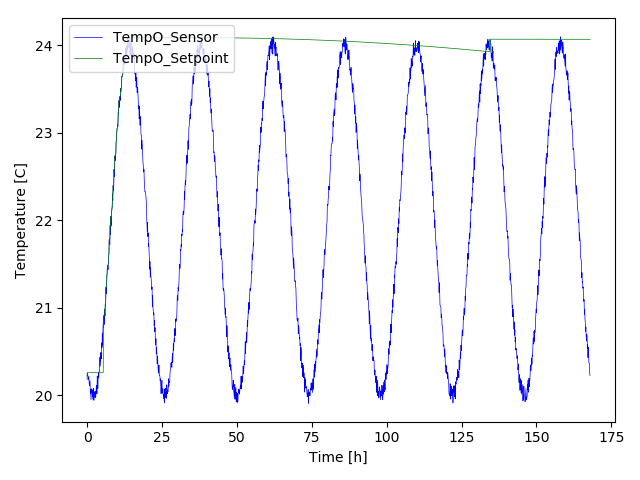
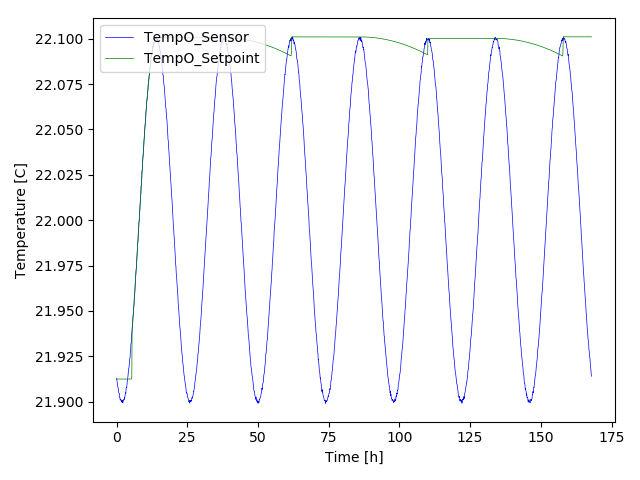
Temporary

diff --git a/software/node/program/portable_daymaxestimator.py b/software/node/program/portable_daymaxestimator.py
@@ -1,6 +1,7 @@
 # -*- coding: utf-8 -*-
 import math
 
+import config_app
 import portable_ticks
 import portable_constants
 
@@ -64,27 +65,39 @@ class TempO_SetpointWhenSet:
     self.fTempO_C = fTempO_C
     self.iTicks_ms = iTicks_ms
 
+  def adjust(self, iTicks_ms, fTempIncrease_C):
+    self.fTempO_C += fTempIncrease_C
+    # Subtrakt PeakDelay to avoid that a peak increases the setpoint again
+    self.iTicks_ms = portable_ticks.objTicks.ticks_add(iTicks_ms, -iTimePeakDelay_ms)
+
 TEMP_LOW_C = -100.00
+HEAT_HIGH_W = 47.11
 
 class TemperatureList:
   def __init__(self):
     self.iDatapoints = int(TIME_INTERVAL_FTEMPO_SETPOINT_MS/TIME_CALC_FTEMPO_SETPOINT_MS)
     self.iLastDatapoint = 0
     self.listTemp_C = [TEMP_LOW_C,]*self.iDatapoints
+    self.listHeat_W = [HEAT_HIGH_W,]*self.iDatapoints
     self.iIndexMiddle = int(self.iDatapoints/2)
 
-  def appendLastDatapoint(self, iTemp_C=TEMP_LOW_C):
+  def appendLastDatapoint(self, fHeat_W, fTemp_C=TEMP_LOW_C):
     self.iLastDatapoint += 1
     if self.iLastDatapoint >= self.iDatapoints:
       self.iLastDatapoint = 0
-    self.listTemp_C[self.iLastDatapoint] = iTemp_C
+    self.listTemp_C[self.iLastDatapoint] = fTemp_C
+    self.listHeat_W[self.iLastDatapoint] = fHeat_W
 
-  def getTemperatureMedian(self):
+  def getTempMedian_C(self):
     listTempSorted_C = sorted(self.listTemp_C)
     return listTempSorted_C[self.iIndexMiddle]
 
-  def getTemperatureMax(self):
+  def getTempMax_C(self):
     return max(self.listTemp_C)
+
+  def getHeatMedian_W(self):
+    listHeatSorted_W = sorted(self.listHeat_W)
+    return listHeatSorted_W[self.iIndexMiddle]
 
   def getListAsString(self):
     return ','.join(map(lambda v: '%0.1f' % v, (self.listTemp_C[self.iLastDatapoint+1:] + self.listTemp_C[:self.iLastDatapoint])))
@@ -135,31 +148,54 @@ class DayMaxEstimator:
       if bDebug: print('**** self.iStartTime_ms:', self.iStartTime_ms, ', bFetMin_W_Limit_Low:', bFetMin_W_Limit_Low)
       if bFetMin_W_Limit_Low:
         # No heating
-        self.objTemperatureList.appendLastDatapoint(fAvgTempO_C)
+        self.objTemperatureList.appendLastDatapoint(fHeat_W=fAvgHeat_W, fTemp_C=fAvgTempO_C)
         return self.__updateSetpoint(iTicks_ms)
       # Heating
-      self.objTemperatureList.appendLastDatapoint()
+      self.objTemperatureList.appendLastDatapoint(fHeat_W=fAvgHeat_W)
     if bDebug: print('**** self.objTempO_SetpointWhenSet.calculateSetpoint:', self.objTempO_SetpointWhenSet.calculateSetpoint(iTicks_ms))
     return self.objTempO_SetpointWhenSet.calculateSetpoint(iTicks_ms)
 
   def __updateSetpoint(self, iTicks_ms):
-    iTimeSinceLastSetpointSet_ms = portable_ticks.objTicks.ticks_diff(iTicks_ms, self.objTempO_SetpointWhenSet.iTicks_ms)
-    if bDebug: print('**** iTimeSinceLastSetpointSet_s:', iTimeSinceLastSetpointSet_ms//1000)
-    assert iTimeSinceLastSetpointSet_ms >= 0
-    if bDebug: print('**** self.objTemperatureList.listTemp_C:', self.objTemperatureList.getListAsString())
-    if iTimeSinceLastSetpointSet_ms < iTimePeakDelay_ms:
-      # Setpoint was set within the last 20min
-      fTempPast_C = self.objTemperatureList.getTemperatureMax()
-      if bDebug: print('**** max:', fTempPast_C)
-    else:
-      # Setpoint has not been set during last 20min
-      fTempPast_C = self.objTemperatureList.getTemperatureMedian()
-      if bDebug: print('**** median:', fTempPast_C)
+    fTempPast_C = self.__getTempPast_C(iTicks_ms)
+    if bDebug: print('**** fTempPast_C:', fTempPast_C)
     fSetpoint_C = self.objTempO_SetpointWhenSet.calculateSetpoint(iTicks_ms)
     if bDebug: print('**** fTempPast_C, fSetpoint_C:', fTempPast_C, fSetpoint_C)
     if fTempPast_C < fSetpoint_C:
+      if config_app.bPowerOffset:
+        bAdjusted = self.__adjustPowerOffset(iTicks_ms)
+        if bAdjusted:
+          fSetpoint_C = self.objTempO_SetpointWhenSet.calculateSetpoint(iTicks_ms)
       return fSetpoint_C
     if bDebug: print('**** self.objTempO_SetpointWhenSet.restart:', fTempPast_C)
     self.objTempO_SetpointWhenSet.restart(iTicks_ms, fTempPast_C)
     return fTempPast_C
+
+  def __adjustPowerOffset(self, iTicks_ms):
+    fHeat_W = self.objTemperatureList.getHeatMedian_W()
+    if fHeat_W < config_app.fPowerOffsetMin_W:
+      # Power too low: Increase setpoint slowly
+      self.objTempO_SetpointWhenSet.adjust(iTicks_ms, fTempIncrease_C=0.001)
+      return True
+
+    if fHeat_W < config_app.fPowerOffsetMin_W+config_app.fPowerOffsetRangeOk_W:
+      # Power ok (in good-range): Do not decrease setpoint in the long run
+      self.objTempO_SetpointWhenSet.adjust(iTicks_ms, fTempIncrease_C=0.0)
+      return True
+
+    return False
+
+  def __getTempPast_C(self, iTicks_ms):
+    iTimeSinceLastSetpointSet_ms = portable_ticks.objTicks.ticks_diff(iTicks_ms, self.objTempO_SetpointWhenSet.iTicks_ms)
+    if bDebug: print('**** iTimeSinceLastSetpointSet_s:', iTimeSinceLastSetpointSet_ms//1000)
+    assert iTimeSinceLastSetpointSet_ms >= 0
+    if bDebug: print('**** self.objTemperatureList.listTemp_C:', self.objTemperatureList.getListAsString())
+
+    if iTimeSinceLastSetpointSet_ms < iTimePeakDelay_ms:
+      # Setpoint was set within the last 20min
+      if bDebug: print('**** max')
+      return self.objTemperatureList.getTempMax_C()
+
+    # Setpoint has not been set during last 20min
+    if bDebug: print('**** median')
+    return self.objTemperatureList.getTempMedian_C()
 

diff --git a/software/simulation_tests/simulation_test_dayestimator.py b/software/simulation_tests/simulation_test_dayestimator.py
@@ -3,15 +3,17 @@ import pyplot
 import portable_constants
 import portable_ticks
 
+import config_app
 import portable_simuliert_tagesmodell
 import portable_daymaxestimator
 import portable_tempstabilizer
 
-def doit(iTimeEnd_ms, iIncrementTicks_ms, strFilename, fFactorWeek_C=1.0, bPowerOffset=False):
+def doit(iTimeEnd_ms, iIncrementTicks_ms, strFilename, fFactorWeek_C=1.0, fRandom=0.1, fFactorDay_C=2.0, bPowerOffset=True):
+  config_app.bPowerOffset = bPowerOffset
   portable_ticks.reset()
   portable_ticks.init(iMaxTicks_ms=portable_constants.YEAR_MS)
 
-  objTagesmodell = portable_simuliert_tagesmodell.Tagesmodell(iTimeOffset=-8*portable_constants.HOUR_MS, fFactorWeek_C=fFactorWeek_C)
+  objTagesmodell = portable_simuliert_tagesmodell.Tagesmodell(iTimeOffset=-8*portable_constants.HOUR_MS, fFactorWeek_C=fFactorWeek_C, fRandom=fRandom, fFactorDay_C=fFactorDay_C)
   objDayMaxEstimator = portable_daymaxestimator.DayMaxEstimator(portable_ticks.objTicks.ticks_ms())
   fTempO_Sensor = objTagesmodell.get_fTemp_C(iTime_ms=0)
   objDayMaxEstimator.start(portable_ticks.objTicks.ticks_ms(), fTempO_Sensor=fTempO_Sensor)
@@ -44,12 +46,14 @@ def run():
   doit(iTimeEnd_ms=1*portable_constants.WEEK_MS,
     iIncrementTicks_ms=6*portable_constants.MINUTE_MS,
     strFilename='simulation_test_dayestimator_fFactorWeek0_bPowerOffsetFalse.png',
-    fFactorWeek_C=0.0, bPowerOffset=False)
+    fFactorWeek_C=0.0, fRandom=0.001, fFactorDay_C=0.1,
+    bPowerOffset=False)
 
   doit(iTimeEnd_ms=1*portable_constants.WEEK_MS,
     iIncrementTicks_ms=6*portable_constants.MINUTE_MS,
     strFilename='simulation_test_dayestimator_fFactorWeek0.png',
-    fFactorWeek_C=0.0)
+    fFactorWeek_C=0.0, fRandom=0.001, fFactorDay_C=0.1,
+    bPowerOffset=True)
 
   doit(iTimeEnd_ms=2*portable_constants.WEEK_MS,
     iIncrementTicks_ms=6*portable_constants.MINUTE_MS,

diff --git a/software/node/config/config_app.py b/software/node/config/config_app.py
@@ -118,6 +118,10 @@ bSetpointFix = False
 # Setpoint if 'bSetpointFix = True'
 fTempSetpointFix_C = 0.0
 
+bPowerOffset = True
+fPowerOffsetMin_W = 0.1
+fPowerOffsetRangeOk_W = 0.1
+
 def setVirgin():
   setFixtemp(0.0)
 
